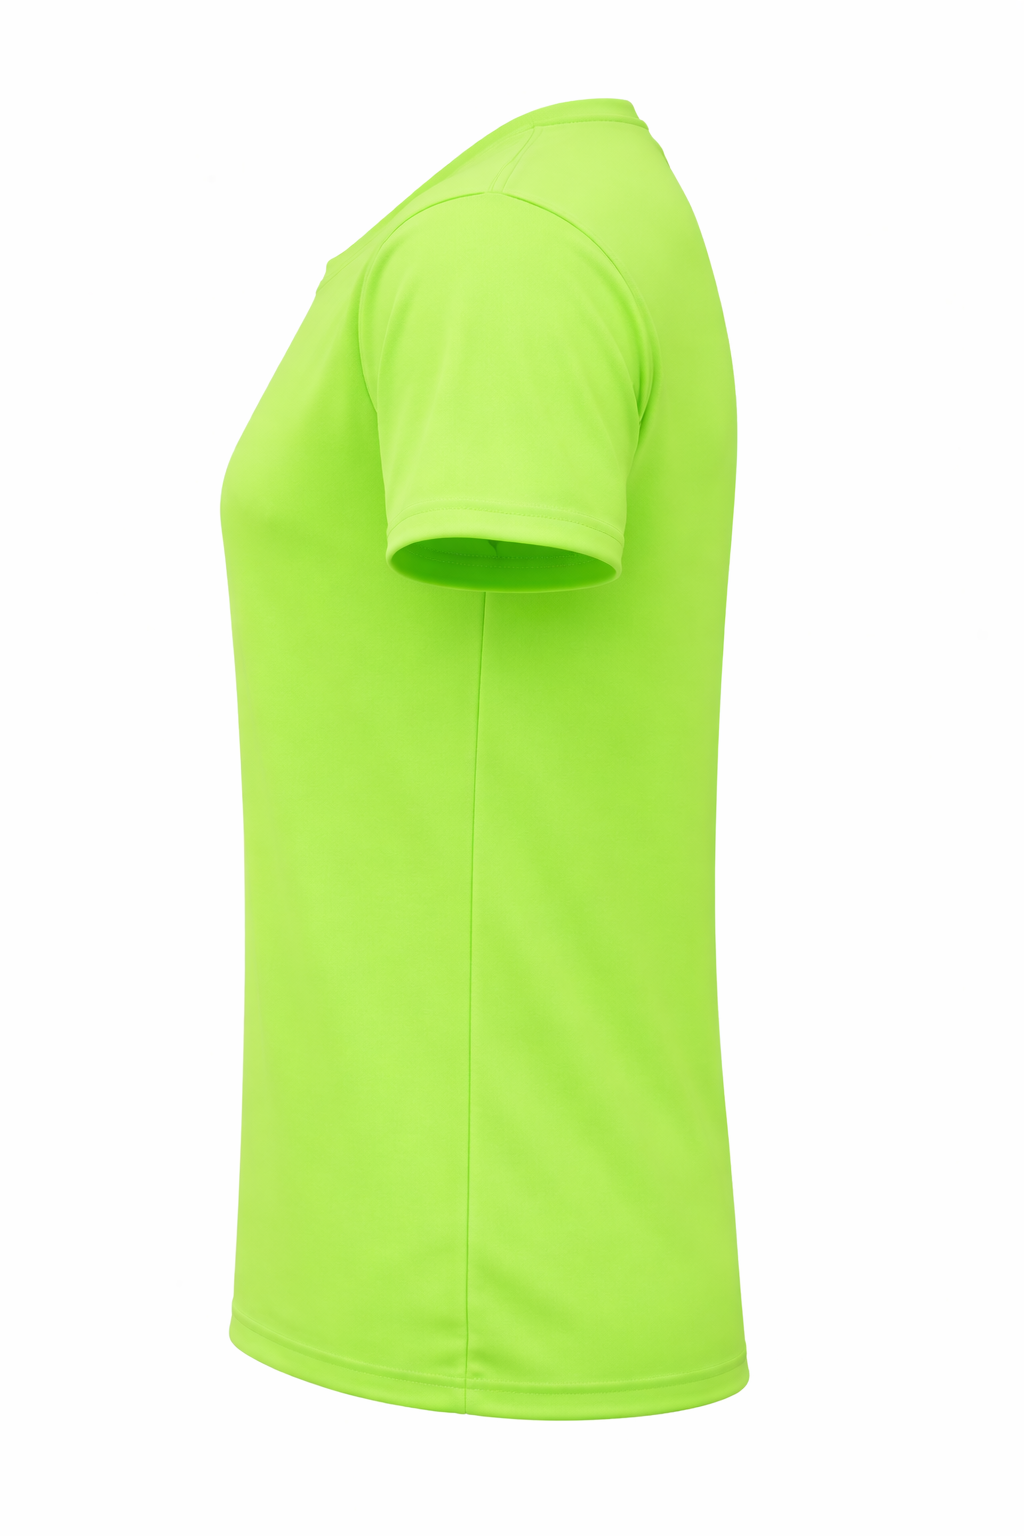
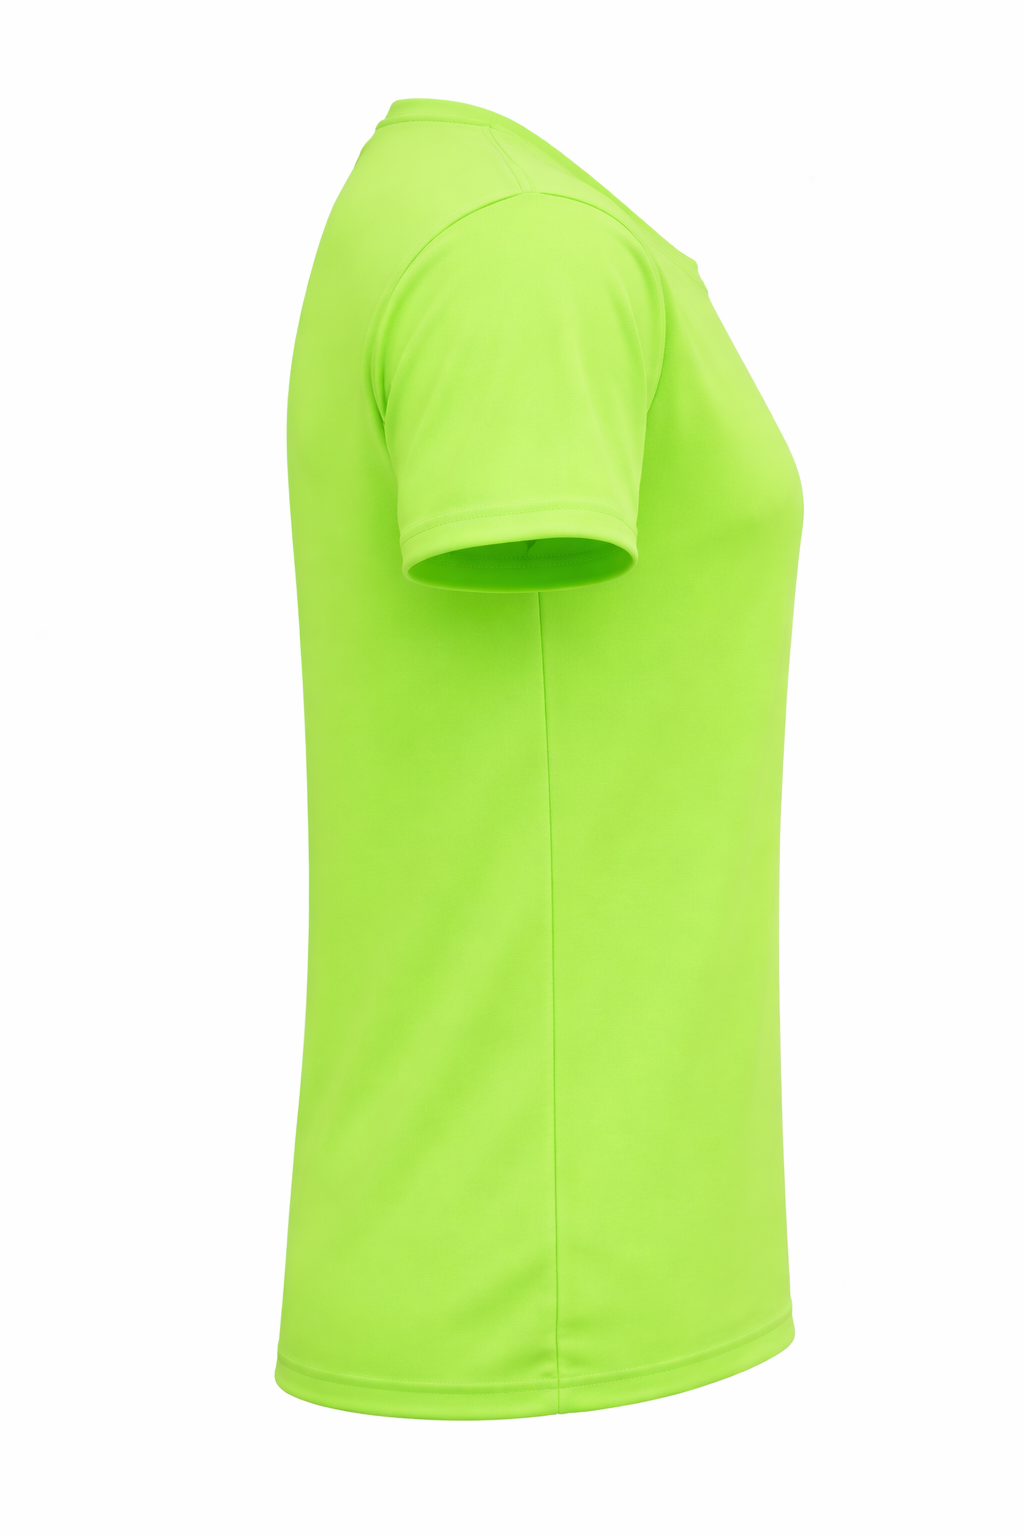
Add TriDri new colors and align sleeve mapping logic

Changed region(s): [[0.1875, 0.0625, 0.8125, 0.9375]]

diff --git a/KODE/src/lib/autoTshirtVariants.ts b/KODE/src/lib/autoTshirtVariants.ts
@@ -218,10 +218,40 @@ export const autoBasicTshirtColorMockups: Record<string, Partial<Record<"fullFro
 
 export const autoPerformanceTshirtVariants: AutoProductVariant[] = [
   {
+    "value": "white",
+    "da": "Hvid",
+    "en": "White",
+    "hex": "#F7F7F5"
+  },
+  {
     "value": "black",
     "da": "Sort",
     "en": "Black",
     "hex": "#1C1C1C"
+  },
+  {
+    "value": "royal-blue",
+    "da": "Royal Blue",
+    "en": "Royal Blue",
+    "hex": "#2563EB"
+  },
+  {
+    "value": "sapphire-blue",
+    "da": "Sapphire Blue",
+    "en": "Sapphire Blue",
+    "hex": "#1E3A8A"
+  },
+  {
+    "value": "silver-melange",
+    "da": "Silver Malange",
+    "en": "Silver Melange",
+    "hex": "#94A3B8"
+  },
+  {
+    "value": "turquoise",
+    "da": "Turquoise",
+    "en": "Turquoise",
+    "hex": "#14B8A6"
   },
   {
     "value": "blue-steel",
@@ -340,6 +370,12 @@ export const autoPerformanceTshirtColorMockups: Record<string, Partial<Record<"f
     "rightSleeve": "/tridri-performance-yellow-right-sleeve.png",
     "fullBack": "/tridri-performance-yellow-back.png"
   },
+  "white": {
+    "fullFront": "/tridri-performance-white-front.png",
+    "leftSleeve": "/tridri-performance-white-left-sleeve.png",
+    "rightSleeve": "/tridri-performance-white-right-sleeve.png",
+    "fullBack": "/tridri-performance-white-back.png"
+  },
   "neon-green": {
     "fullFront": "/tridri-performance-neon-green-front.png",
     "leftSleeve": "/tridri-performance-neon-green-left-sleeve.png",
@@ -370,11 +406,35 @@ export const autoPerformanceTshirtColorMockups: Record<string, Partial<Record<"f
     "rightSleeve": "/tridri-performance-orange-right-sleeve.png",
     "fullBack": "/tridri-performance-orange-back.png"
   },
+  "royal-blue": {
+    "fullFront": "/tridri-performance-royal-blue-front.png",
+    "leftSleeve": "/tridri-performance-royal-blue-left-sleeve.png",
+    "rightSleeve": "/tridri-performance-royal-blue-right-sleeve.png",
+    "fullBack": "/tridri-performance-royal-blue-back.png"
+  },
+  "sapphire-blue": {
+    "fullFront": "/tridri-performance-sapphire-blue-front.png",
+    "leftSleeve": "/tridri-performance-sapphire-blue-left-sleeve.png",
+    "rightSleeve": "/tridri-performance-sapphire-blue-right-sleeve.png",
+    "fullBack": "/tridri-performance-sapphire-blue-back.png"
+  },
+  "silver-melange": {
+    "fullFront": "/tridri-performance-silver-melange-front.png",
+    "leftSleeve": "/tridri-performance-silver-melange-left-sleeve.png",
+    "rightSleeve": "/tridri-performance-silver-melange-right-sleeve.png",
+    "fullBack": "/tridri-performance-silver-melange-back.png"
+  },
   "black": {
     "fullFront": "/tridri-performance-black-front.png",
     "leftSleeve": "/tridri-performance-black-left-sleeve.png",
     "rightSleeve": "/tridri-performance-black-right-sleeve.png",
     "fullBack": "/tridri-performance-black-back.png"
+  },
+  "turquoise": {
+    "fullFront": "/tridri-performance-turquoise-front.png",
+    "leftSleeve": "/tridri-performance-turquoise-left-sleeve.png",
+    "rightSleeve": "/tridri-performance-turquoise-right-sleeve.png",
+    "fullBack": "/tridri-performance-turquoise-back.png"
   }
 };
 

diff --git a/KODE/src/components/design/PlacementStep.tsx b/KODE/src/components/design/PlacementStep.tsx
@@ -348,7 +348,7 @@ const sleeveMirrorOverridesByProduct: Partial<
     leftSleeve: true,
   },
   "performance-tshirt": {
-    rightSleeve: true,
+    rightSleeve: false,
   },
   "byb-ladies-fluffy-sweatpants": {
     leftSleeve: false,
@@ -361,7 +361,8 @@ export const getMockupSourceAndTransform = (
   colorValue: string | undefined,
   placementId: string
 ) => {
-  const shouldSwapSleeveSources = productId !== "byb-ladies-fluffy-sweatpants";
+  const shouldSwapSleeveSources =
+    productId !== "byb-ladies-fluffy-sweatpants" && productId !== "performance-tshirt";
   const imagePlacementId =
     shouldSwapSleeveSources && placementId === "leftSleeve"
       ? "rightSleeve"
@@ -715,7 +716,8 @@ const PlacementStep = ({
 
   const printArea = { top: `${areaPos.top}%`, left: `${areaPos.left}%`, width: `${areaPos.width}%`, height: `${areaPos.height}%` };
   const productMockups = mockupImagesByProduct[productId] ?? mockupImagesByProduct["basic-tshirt"];
-  const shouldSwapSleeveSources = productId !== "byb-ladies-fluffy-sweatpants";
+  const shouldSwapSleeveSources =
+    productId !== "byb-ladies-fluffy-sweatpants" && productId !== "performance-tshirt";
   const imagePlacementId =
     shouldSwapSleeveSources && placementId === "leftSleeve"
       ? "rightSleeve"
